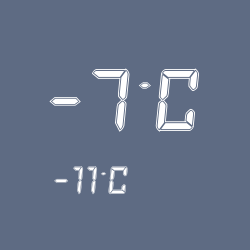
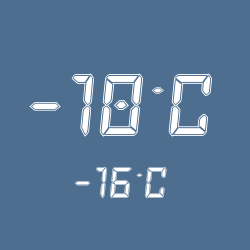
отладка майн

Changed region(s): [[0.112, 0.252, 0.868, 0.56], [0.28, 0.644, 0.672, 0.812], [0.196, 0.7, 0.28, 0.756]]

diff --git a/main.py b/main.py
@@ -12,8 +12,8 @@ celsius = '°C'
 location = 1526384  # Almaty
 
 FONT_MAIN_SIZE = 90
-FONT_ADD_SIZE = 40
-TEXT_Y_POSITION = 55
+FONT_ADD_SIZE = 45
+TEXT_Y_POSITION = 60
 TEXT_ADD_Y_POSITION = 160
 
 def interpolate_color(color1, color2, factor):
@@ -63,7 +63,7 @@ def get_weather(location, api_key):
 
 def generate_temperature_image(temperature, feels):
     # Создаем изображение с заданным размером
-    image = Image.new('RGBA', (250, 250), map_temperature_to_color(temperature, -30, 40))
+    image = Image.new('RGBA', (250, 250), map_temperature_to_color(temperature, -20, 20))
     draw = ImageDraw.Draw(image)
     
     # Преобразуем температуру в строку
@@ -71,9 +71,9 @@ def generate_temperature_image(temperature, feels):
     
     # Определяем начальную позицию текста в зависимости от длины строки
     if len(temperature_str[0]) == 1:
-        x_start = 65
+        x_start = 62
     elif len(temperature_str[0]) == 2:
-        x_start = 40
+        x_start = 36
     else:
         x_start = 20
 
@@ -82,7 +82,7 @@ def generate_temperature_image(temperature, feels):
     elif len(temperature_str[1]) == 2:
         x_add_start = 90
     else:
-        x_add_start = 50
+        x_add_start = 70
     
     # Загружаем шрифт
     font_main = ImageFont.truetype("FrozenCrystalAcademy.otf", FONT_MAIN_SIZE)
